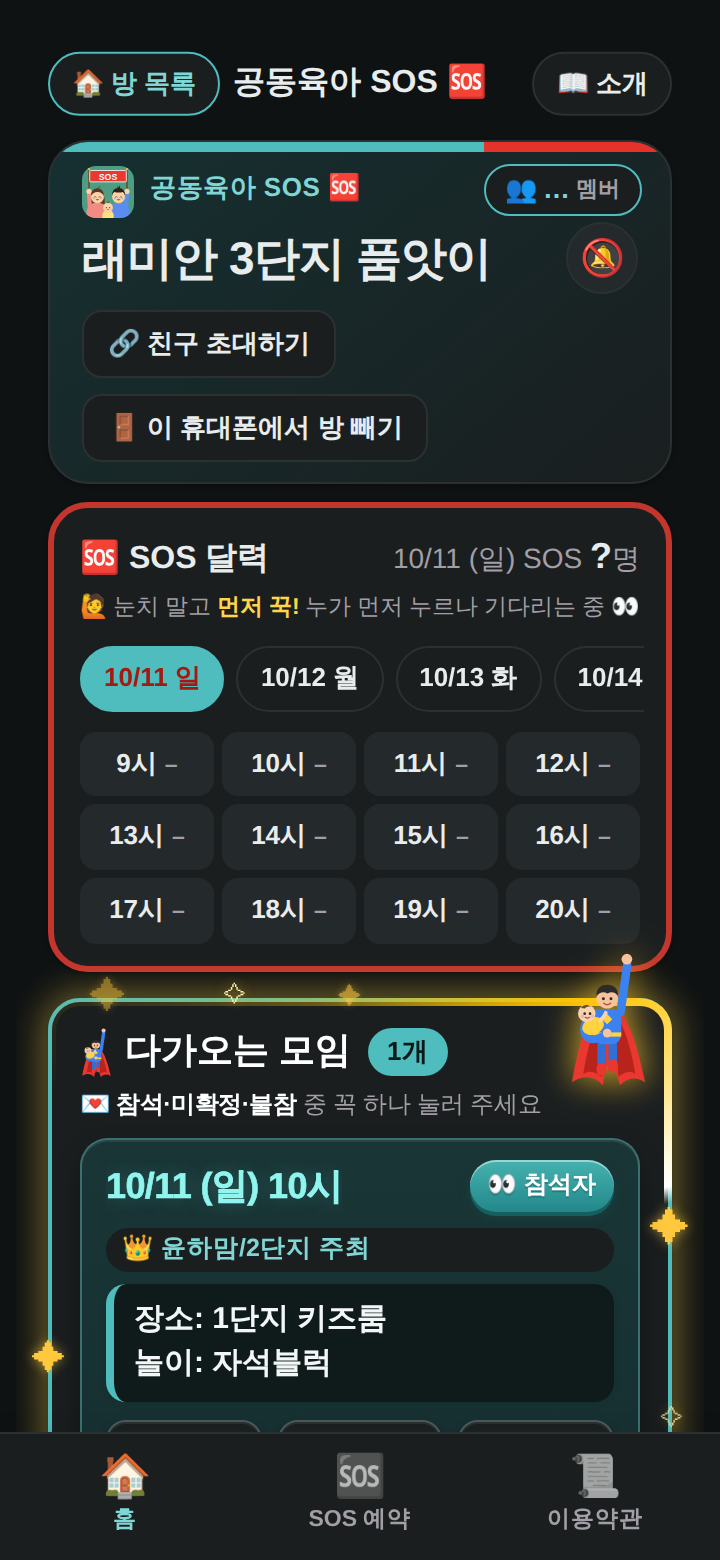
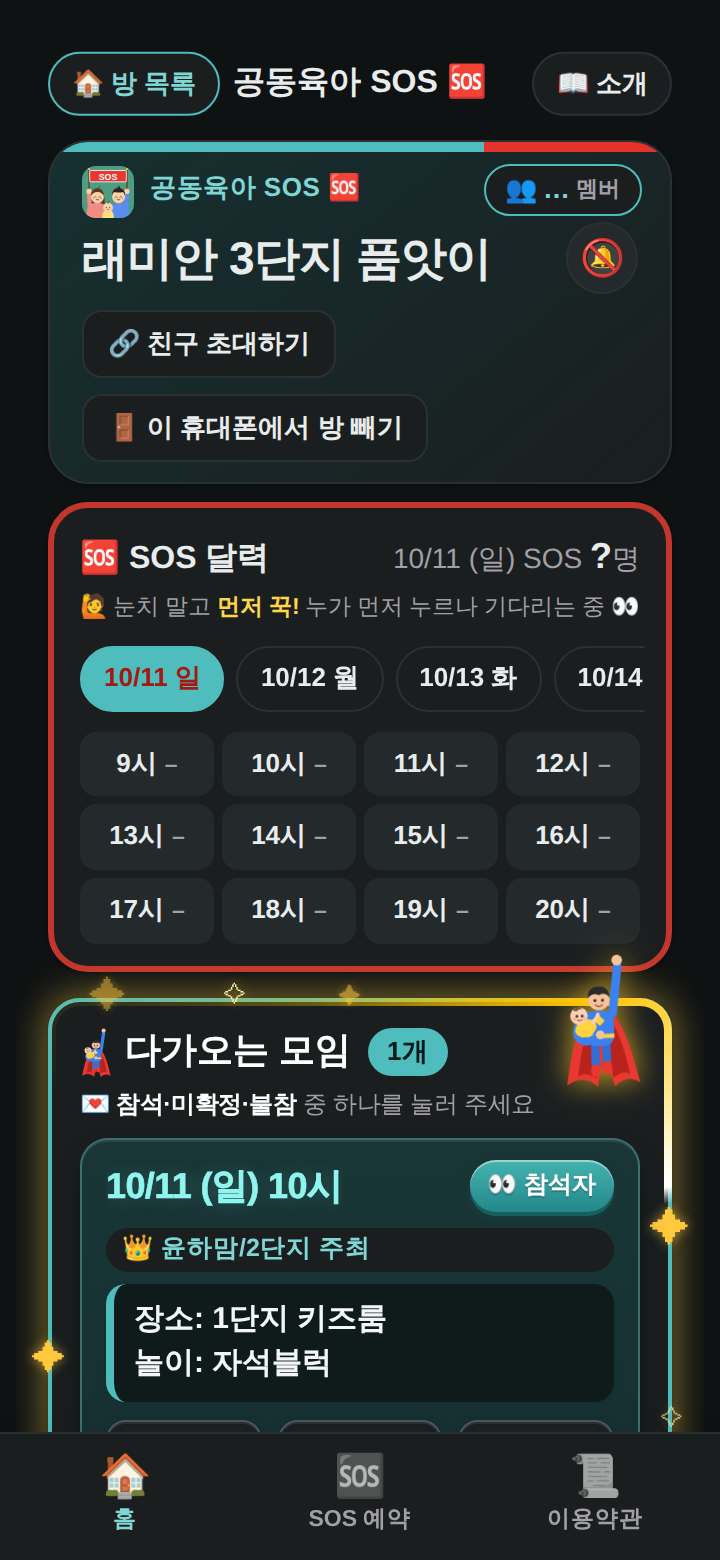
Drop '꼭' from attendance prompts
Claude-Session: https://claude.ai/code/session_01EFizHcDdWswyQN5TmKwWHe

diff --git a/sos/index.html b/sos/index.html
@@ -9,14 +9,14 @@
 <link rel="preconnect" href="https://fonts.gstatic.com" crossorigin>
 <link rel="stylesheet" href="https://fonts.googleapis.com/css2?family=IBM+Plex+Sans+KR:wght@400;500;600;700&display=swap">
 <link rel="icon" href="assets/icon.svg" type="image/svg+xml">
-<link rel="manifest" href="manifest.webmanifest?v=202610110638">
+<link rel="manifest" href="manifest.webmanifest?v=202610110704">
 <meta name="theme-color" content="#2a9095">
 <link rel="apple-touch-icon" href="assets/icon-sos-180.png">
 <meta name="apple-mobile-web-app-capable" content="yes">
 <meta name="mobile-web-app-capable" content="yes">
 <meta name="apple-mobile-web-app-title" content="공동육아 SOS">
-<link rel="stylesheet" href="assets/common.css?v=202610110638">
-<script src="assets/gate.js?v=202610110638"></script>
+<link rel="stylesheet" href="assets/common.css?v=202610110704">
+<script src="assets/gate.js?v=202610110704"></script>
 </head>
 <body>
 <div class="wrap single">
@@ -36,7 +36,7 @@
     <section class="sec next-card">
       <span class="next-star s1" aria-hidden="true">✦</span><span class="next-star s2" aria-hidden="true">✦</span><span class="next-star s3" aria-hidden="true">✦</span><span class="next-star s4" aria-hidden="true">✦</span><span class="next-star s5" aria-hidden="true">✦</span><span class="next-star s6" aria-hidden="true">✦</span><span class="next-star s7" aria-hidden="true">✧</span><span class="next-star s8" aria-hidden="true">✧</span><span class="next-sos" aria-hidden="true">SOS</span><span class="next-hero" aria-hidden="true"></span>
       <h2><img class="h-hero" src="assets/hero-up.svg" alt=""> 다가오는 모임 <span class="next-count" id="nextCount" hidden></span></h2>
-      <p class="next-note" id="nextNote" hidden>💌 <b>참석·미확정·불참</b> 중 꼭 하나 눌러 주세요</p>
+      <p class="next-note" id="nextNote" hidden>💌 <b>참석·미확정·불참</b> 중 하나를 눌러 주세요</p>
       <ul class="ops" id="next"></ul>
       <p class="hint" id="nextEmpty">모임을 불러오는 중…</p>
       <p class="next-cta" id="nextMake" hidden><a class="btn primary block" href="meet.html#new">💪 첫 모임 열기</a></p>
@@ -85,8 +85,8 @@
 <script src="https://www.gstatic.com/firebasejs/10.12.0/firebase-auth-compat.js"></script>
 <script src="https://www.gstatic.com/firebasejs/10.12.0/firebase-firestore-compat.js"></script>
 <script src="https://www.gstatic.com/firebasejs/10.12.0/firebase-messaging-compat.js"></script>
-<script src="assets/common.js?v=202610110638"></script>
-<script src="assets/push.js?v=202610110638"></script>
+<script src="assets/common.js?v=202610110704"></script>
+<script src="assets/push.js?v=202610110704"></script>
 <script>
 sosSummary();
 // 🦸 구원자: 처음엔 오른쪽 위에서 흔들흔들 → 조금 뒤 테두리를 한 바퀴 날고 다시 제자리 (그 뒤로도 가끔)

diff --git a/sos/safety.html b/sos/safety.html
@@ -8,14 +8,14 @@
 <link rel="preconnect" href="https://fonts.gstatic.com" crossorigin>
 <link rel="stylesheet" href="https://fonts.googleapis.com/css2?family=IBM+Plex+Sans+KR:wght@400;500;600;700&display=swap">
 <link rel="icon" href="assets/icon.svg" type="image/svg+xml">
-<link rel="manifest" href="manifest.webmanifest?v=202610110638">
+<link rel="manifest" href="manifest.webmanifest?v=202610110704">
 <meta name="theme-color" content="#2a9095">
 <link rel="apple-touch-icon" href="assets/icon-sos-180.png">
 <meta name="apple-mobile-web-app-capable" content="yes">
 <meta name="mobile-web-app-capable" content="yes">
 <meta name="apple-mobile-web-app-title" content="공동육아 SOS">
-<link rel="stylesheet" href="assets/common.css?v=202610110638">
-<script src="assets/gate.js?v=202610110638"></script>
+<link rel="stylesheet" href="assets/common.css?v=202610110704">
+<script src="assets/gate.js?v=202610110704"></script>
 </head>
 <body>
 <div class="wrap single">
@@ -137,8 +137,8 @@
 <script src="https://www.gstatic.com/firebasejs/10.12.0/firebase-auth-compat.js"></script>
 <script src="https://www.gstatic.com/firebasejs/10.12.0/firebase-firestore-compat.js"></script>
 <script src="https://www.gstatic.com/firebasejs/10.12.0/firebase-messaging-compat.js"></script>
-<script src="assets/common.js?v=202610110638"></script>
-<script src="assets/push.js?v=202610110638"></script>
+<script src="assets/common.js?v=202610110704"></script>
+<script src="assets/push.js?v=202610110704"></script>
 <script>
 document.getElementById('deleteMe').addEventListener('click', async e => {
   const owning = sosRooms().filter(r => r.owner).map(r => r.name);   // 내가 방장인 방이 있으면 먼저 알려 줘요

diff --git a/sos/meet.html b/sos/meet.html
@@ -8,14 +8,14 @@
 <link rel="preconnect" href="https://fonts.gstatic.com" crossorigin>
 <link rel="stylesheet" href="https://fonts.googleapis.com/css2?family=IBM+Plex+Sans+KR:wght@400;500;600;700&display=swap">
 <link rel="icon" href="assets/icon.svg" type="image/svg+xml">
-<link rel="manifest" href="manifest.webmanifest?v=202610110638">
+<link rel="manifest" href="manifest.webmanifest?v=202610110704">
 <meta name="theme-color" content="#2a9095">
 <link rel="apple-touch-icon" href="assets/icon-sos-180.png">
 <meta name="apple-mobile-web-app-capable" content="yes">
 <meta name="mobile-web-app-capable" content="yes">
 <meta name="apple-mobile-web-app-title" content="공동육아 SOS">
-<link rel="stylesheet" href="assets/common.css?v=202610110638">
-<script src="assets/gate.js?v=202610110638"></script>
+<link rel="stylesheet" href="assets/common.css?v=202610110704">
+<script src="assets/gate.js?v=202610110704"></script>
 </head>
 <body>
 <div class="wrap single">
@@ -59,8 +59,8 @@
 <script src="https://www.gstatic.com/firebasejs/10.12.0/firebase-auth-compat.js"></script>
 <script src="https://www.gstatic.com/firebasejs/10.12.0/firebase-firestore-compat.js"></script>
 <script src="https://www.gstatic.com/firebasejs/10.12.0/firebase-messaging-compat.js"></script>
-<script src="assets/common.js?v=202610110638"></script>
-<script src="assets/push.js?v=202610110638"></script>
-<script src="assets/meet.js?v=202610110638"></script>
+<script src="assets/common.js?v=202610110704"></script>
+<script src="assets/push.js?v=202610110704"></script>
+<script src="assets/meet.js?v=202610110704"></script>
 </body>
 </html>

diff --git a/sos/play.html b/sos/play.html
@@ -8,14 +8,14 @@
 <link rel="preconnect" href="https://fonts.gstatic.com" crossorigin>
 <link rel="stylesheet" href="https://fonts.googleapis.com/css2?family=IBM+Plex+Sans+KR:wght@400;500;600;700&display=swap">
 <link rel="icon" href="assets/icon.svg" type="image/svg+xml">
-<link rel="manifest" href="manifest.webmanifest?v=202610110638">
+<link rel="manifest" href="manifest.webmanifest?v=202610110704">
 <meta name="theme-color" content="#2a9095">
 <link rel="apple-touch-icon" href="assets/icon-sos-180.png">
 <meta name="apple-mobile-web-app-capable" content="yes">
 <meta name="mobile-web-app-capable" content="yes">
 <meta name="apple-mobile-web-app-title" content="공동육아 SOS">
-<link rel="stylesheet" href="assets/common.css?v=202610110638">
-<script src="assets/gate.js?v=202610110638"></script>
+<link rel="stylesheet" href="assets/common.css?v=202610110704">
+<script src="assets/gate.js?v=202610110704"></script>
 </head>
 <body>
 <div class="wrap">
@@ -135,8 +135,8 @@
 <script src="https://www.gstatic.com/firebasejs/10.12.0/firebase-app-compat.js"></script>
 <script src="https://www.gstatic.com/firebasejs/10.12.0/firebase-auth-compat.js"></script>
 <script src="https://www.gstatic.com/firebasejs/10.12.0/firebase-firestore-compat.js"></script>
-<script src="plays.js?v=202610110638"></script>
-<script src="assets/common.js?v=202610110638"></script>
-<script src="assets/play.js?v=202610110638"></script>
+<script src="plays.js?v=202610110704"></script>
+<script src="assets/common.js?v=202610110704"></script>
+<script src="assets/play.js?v=202610110704"></script>
 </body>
 </html>

diff --git a/sos/terms.html b/sos/terms.html
@@ -8,14 +8,14 @@
 <link rel="preconnect" href="https://fonts.gstatic.com" crossorigin>
 <link rel="stylesheet" href="https://fonts.googleapis.com/css2?family=IBM+Plex+Sans+KR:wght@400;500;600;700&display=swap">
 <link rel="icon" href="assets/icon.svg" type="image/svg+xml">
-<link rel="manifest" href="manifest.webmanifest?v=202610110638">
+<link rel="manifest" href="manifest.webmanifest?v=202610110704">
 <meta name="theme-color" content="#2a9095">
 <link rel="apple-touch-icon" href="assets/icon-sos-180.png">
 <meta name="apple-mobile-web-app-capable" content="yes">
 <meta name="mobile-web-app-capable" content="yes">
 <meta name="apple-mobile-web-app-title" content="공동육아 SOS">
-<link rel="stylesheet" href="assets/common.css?v=202610110638">
-<script src="assets/gate.js?v=202610110638"></script>
+<link rel="stylesheet" href="assets/common.css?v=202610110704">
+<script src="assets/gate.js?v=202610110704"></script>
 </head>
 <body>
 <div class="wrap single">
@@ -112,6 +112,6 @@
 <script src="https://www.gstatic.com/firebasejs/10.12.0/firebase-app-compat.js"></script>
 <script src="https://www.gstatic.com/firebasejs/10.12.0/firebase-auth-compat.js"></script>
 <script src="https://www.gstatic.com/firebasejs/10.12.0/firebase-firestore-compat.js"></script>
-<script src="assets/common.js?v=202610110638"></script>
+<script src="assets/common.js?v=202610110704"></script>
 </body>
 </html>

diff --git a/sos/assets/common.js b/sos/assets/common.js
@@ -768,7 +768,7 @@ function sosGoMeet(list){
 }
 function showMeetVote(o){
   const cnt = meetVotes(o);
-  const box = sosInfo({icon: '<img class="hero-img" src="assets/hero-up.svg" alt="">', title: `${dayLabel(o.date)} ${o.slot || ''} 모임`, body: `<p class="go-nudge">🦸 구원자가 모임을 열었어요!<br><b>참석 · 미확정 · 불참</b> 중<br>하나를 꼭 눌러 주세요 👇</p>
+  const box = sosInfo({icon: '<img class="hero-img" src="assets/hero-up.svg" alt="">', title: `${dayLabel(o.date)} ${o.slot || ''} 모임`, body: `<p class="go-nudge">🦸 구원자가 모임을 열었어요!<br><b>참석 · 미확정 · 불참</b> 중<br>하나를 눌러 주세요 👇</p>
     ${o.host ? '<p class="host-tag go-host"></p>' : ''}<p class="op-text go-text"></p>
     <div class="vote-row go-votes">${[['join', '🙋 참석'], ['maybe', '🤔 미확정'], ['no', '🙅 불참']].map(([s, l]) => `<button type="button" class="join" data-go-vote="${s}">${l} <b>${cnt[s].count}</b></button>`).join('')}</div>
     <p class="go-tip"><b>못 가도 🙅 불참</b>을 눌러 주세요<br>미리 알려 주면<br>주최자가 준비하기 편해요 😊</p>

diff --git a/sos/admin.html b/sos/admin.html
@@ -12,8 +12,8 @@
 <meta name="apple-mobile-web-app-capable" content="yes">
 <meta name="mobile-web-app-capable" content="yes">
 <meta name="apple-mobile-web-app-title" content="SOS 운영">
-<link rel="stylesheet" href="assets/common.css?v=202610110638">
-<script src="assets/gate.js?v=202610110638"></script>
+<link rel="stylesheet" href="assets/common.css?v=202610110704">
+<script src="assets/gate.js?v=202610110704"></script>
 <style>
 /* 운영자 화면: 숫자 타일 → 주간 막대 → 방 표. 단일 색(teal) 막대, 상태색은 경고에만 */
 body{padding-block:20px 60px}

diff --git a/sos/guide.html b/sos/guide.html
@@ -5,7 +5,7 @@
 <meta name="viewport" content="width=device-width,initial-scale=1,viewport-fit=cover">
 <title>사용법 · 공동육아 SOS</title>
 <link rel="icon" href="assets/icon.svg" type="image/svg+xml">
-<link rel="manifest" href="manifest.webmanifest?v=202610110638">
+<link rel="manifest" href="manifest.webmanifest?v=202610110704">
 <meta name="theme-color" content="#2a9095">
 <link rel="apple-touch-icon" href="assets/icon-sos-180.png">
 <style>
